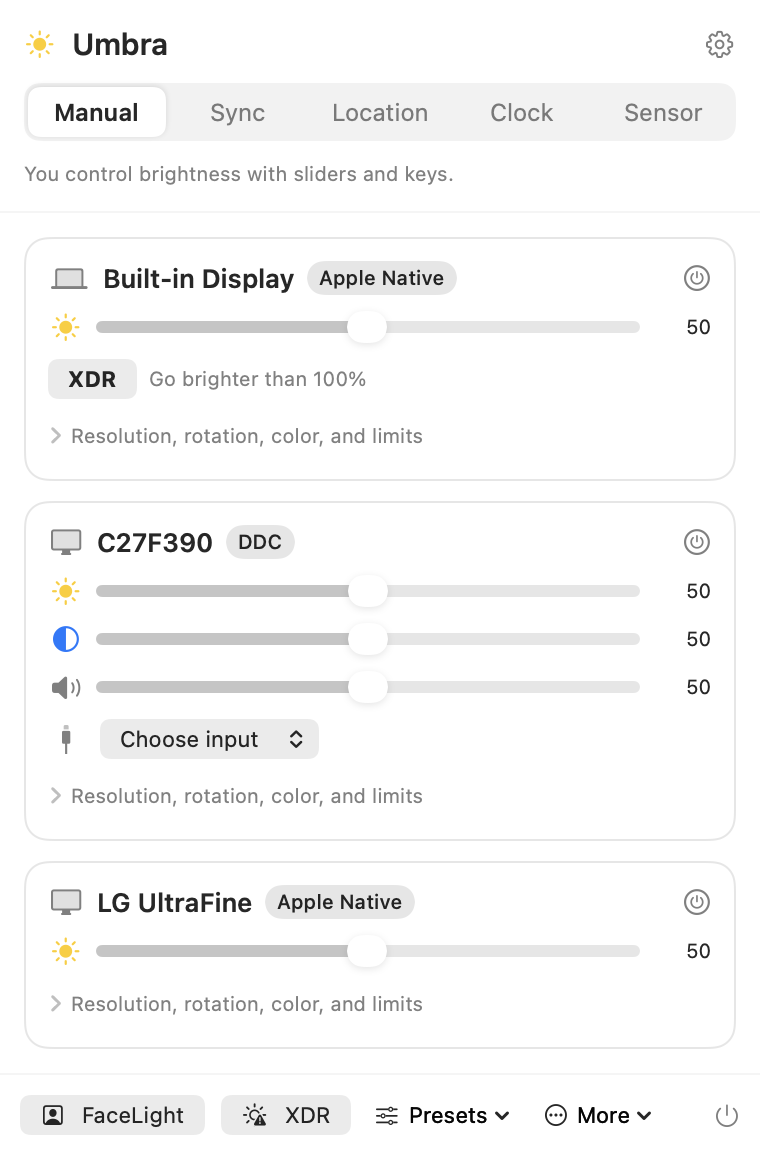
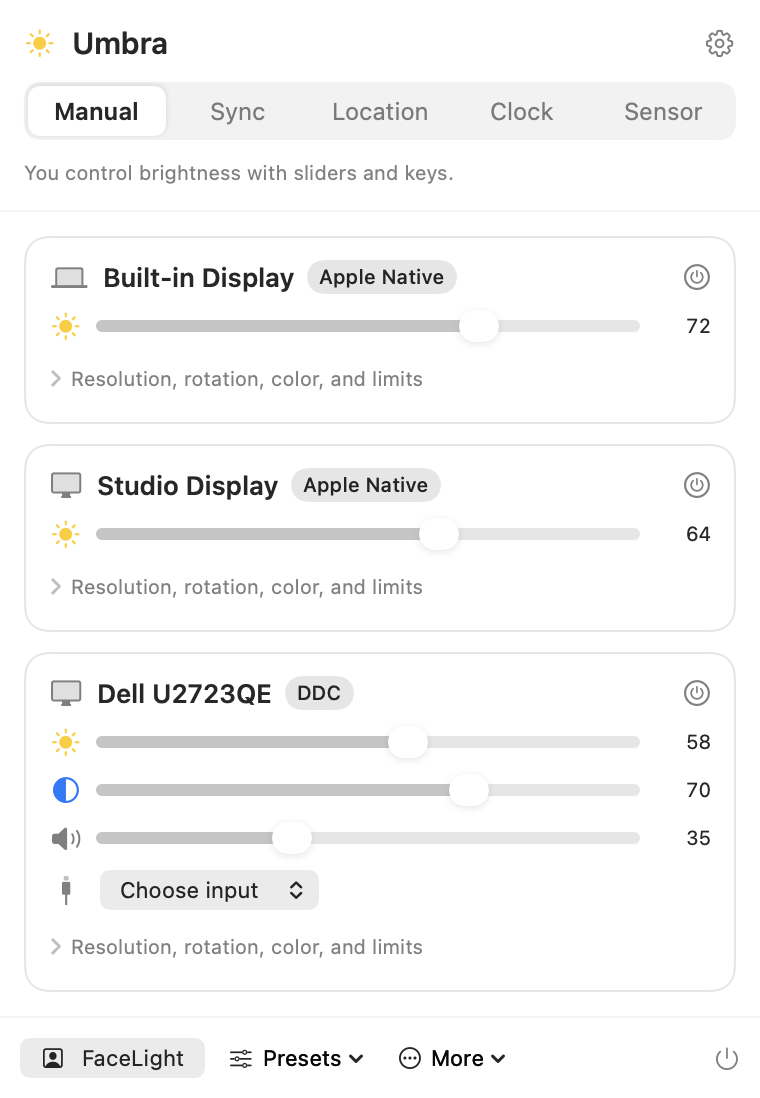
Dark mode: Appearance setting, dark screenshots on the site
- Settings > General > Appearance: Match macOS, Light, or Dark.
- umbra render has a demo mode (UMBRA_DEMO=1) with an example desk that
  never saves settings, so screenshots look the same every time.
- New light and dark screenshots. The site shows the dark ones, and the
  README switches with the reader's GitHub theme.

diff --git a/Sources/Umbra/Config.swift b/Sources/Umbra/Config.swift
@@ -1,3 +1,4 @@
+import AppKit
 import Foundation
 
 enum ControlMethod: String, Codable, CaseIterable, Identifiable {
@@ -10,6 +11,26 @@ enum ControlMethod: String, Codable, CaseIterable, Identifiable {
         case .ddc: return "DDC"
         case .network: return "Network"
         case .gamma: return "Gamma (software)"
+        }
+    }
+}
+
+/// Light or dark look for Umbra's own windows. "Match macOS" follows System Settings > Appearance.
+enum AppAppearance: String, Codable, CaseIterable, Identifiable {
+    case system, light, dark
+    var id: String { rawValue }
+    var label: String {
+        switch self {
+        case .system: return "Match macOS"
+        case .light: return "Light"
+        case .dark: return "Dark"
+        }
+    }
+    var nsAppearance: NSAppearance? {
+        switch self {
+        case .system: return nil
+        case .light: return NSAppearance(named: .aqua)
+        case .dark: return NSAppearance(named: .darkAqua)
         }
     }
 }
@@ -203,6 +224,7 @@ struct AppSettings: Codable, Equatable {
     var blackedOut: [UInt32] = []
     var menuIcon = "sun.max.fill"
     var showDockIcon = false
+    var appearance: AppAppearance = .system
     var scrollOnIcon = true
     /// Adaptive mode per desk setup, keyed by the set of connected external monitors.
     var deskModes: [String: AdaptiveMode] = [:]
@@ -231,7 +253,11 @@ enum Store {
         return try? JSONDecoder().decode(T.self, from: d)
     }
 
+    /// Set by `umbra render` in demo mode, so screenshots never change the person's real settings.
+    static var readOnly = false
+
     static func save<T: Encodable>(_ key: String, _ value: T) {
+        guard !readOnly else { return }
         if let d = try? JSONEncoder().encode(value) { defaults.set(d, forKey: key) }
     }
 }

diff --git a/Sources/Umbra/Render.swift b/Sources/Umbra/Render.swift
@@ -6,7 +6,19 @@ enum Render {
     static func run(_ dir: String) -> Int32 {
         let app = NSApplication.shared
         app.setActivationPolicy(.accessory)
-        AppState.shared.refreshDisplays()
+        if ProcessInfo.processInfo.environment["UMBRA_DEMO"] != nil {
+            // A tidy example desk for the website and README, the same every time.
+            Store.readOnly = true
+            let state = AppState.shared
+            state.settings.mode = .manual
+            state.displays = [
+                Display(demoID: 0xDE01, name: "Built-in Display", builtin: true, method: .appleNative, brightness: 72),
+                Display(demoID: 0xDE02, name: "Studio Display", builtin: false, method: .appleNative, brightness: 64),
+                Display(demoID: 0xDE03, name: "Dell U2723QE", builtin: false, method: .ddc, brightness: 58, contrast: 70, volume: 35),
+            ]
+        } else {
+            AppState.shared.refreshDisplays()
+        }
         RunLoop.main.run(until: Date().addingTimeInterval(0.5))
         try? FileManager.default.createDirectory(atPath: dir, withIntermediateDirectories: true)
         let dark = ProcessInfo.processInfo.environment["UMBRA_DARK"] != nil

diff --git a/site/index.html b/site/index.html
@@ -377,8 +377,8 @@ footer nav { display: flex; gap: 20px; flex-wrap: wrap; }
         </div>
       </div>
       <div class="shots">
-        <figure><img src="/assets/menu.png" alt="Umbra's menu with brightness, contrast, and volume sliders for three screens" width="760" height="1156" loading="lazy"><figcaption>The menu, one card per screen</figcaption></figure>
-        <figure><img src="/assets/welcome.png" alt="Umbra's welcome window listing the screens it found and a suggested mode" width="1040" height="1226" loading="lazy"><figcaption>The welcome window finds your screens for you</figcaption></figure>
+        <figure><img src="/assets/menu-dark.png" alt="Umbra's menu in dark mode, with brightness, contrast, and volume sliders for three screens" width="760" height="1098" loading="lazy"><figcaption>The menu, one card per screen</figcaption></figure>
+        <figure><img src="/assets/welcome-dark.png" alt="Umbra's welcome window in dark mode, listing the screens it found and a suggested mode" width="1040" height="1226" loading="lazy"><figcaption>The welcome window finds your screens for you</figcaption></figure>
       </div>
     </div>
   </section>

diff --git a/Sources/Umbra/SettingsView.swift b/Sources/Umbra/SettingsView.swift
@@ -32,6 +32,13 @@ struct GeneralTab: View {
                 Text("If the menu bar icon is hidden (for example behind the notch), open Umbra again from Applications or Spotlight to see the main window.")
                     .font(.caption).foregroundStyle(.secondary)
             }
+            Section("Appearance") {
+                Picker("Umbra's windows", selection: $state.settings.appearance) {
+                    ForEach(AppAppearance.allCases) { Text($0.label).tag($0) }
+                }
+                Text("Match macOS follows System Settings > Appearance. Choose Light or Dark to keep Umbra that way.")
+                    .font(.caption).foregroundStyle(.secondary)
+            }
             Section("Keyboard") {
                 Toggle("Brightness keys control external monitors", isOn: $state.settings.mediaKeys)
                 Toggle("Volume keys control monitor speakers when they are the sound output", isOn: $state.settings.volumeKeys)

diff --git a/Sources/Umbra/Display.swift b/Sources/Umbra/Display.swift
@@ -65,6 +65,21 @@ final class Display: ObservableObject, Identifiable {
 
     private func save() { Store.save("display.\(uuid)", config) }
 
+    /// A made-up display for screenshots (`UMBRA_DEMO=1 umbra render`). It has no DDC link and is never saved.
+    init(demoID: CGDirectDisplayID, name: String, builtin: Bool, method: ControlMethod, brightness: Double, contrast: Double = 50, volume: Double = 50) {
+        id = demoID
+        uuid = "demo-\(demoID)"
+        isBuiltin = builtin
+        self.name = name
+        link = nil
+        var c = DisplayConfig()
+        c.method = method
+        c.brightness = brightness
+        c.contrast = contrast
+        c.volume = volume
+        config = c
+    }
+
     // MARK: Capabilities
 
     var method: ControlMethod {

diff --git a/Sources/Umbra/AppState.swift b/Sources/Umbra/AppState.swift
@@ -20,6 +20,7 @@ final class AppState: ObservableObject {
             if settings.hotkeys != oldValue.hotkeys { HotkeyCenter.shared.register(settings.hotkeys) }
             if settings.autoBlackOut != oldValue.autoBlackOut { scheduleAutoBlackOut() }
             if settings.showDockIcon != oldValue.showDockIcon { (NSApp.delegate as? AppDelegate)?.updateActivationPolicy() }
+            if settings.appearance != oldValue.appearance { NSApp.appearance = settings.appearance.nsAppearance }
             if settings.subzeroEnabled != oldValue.subzeroEnabled { displays.forEach { $0.applyGamma() } }
         }
     }

diff --git a/Sources/Umbra/main.swift b/Sources/Umbra/main.swift
@@ -12,6 +12,7 @@ final class AppDelegate: NSObject, NSApplicationDelegate {
     private var eventMonitor: Any?
 
     func applicationDidFinishLaunching(_: Notification) {
+        NSApp.appearance = AppState.shared.settings.appearance.nsAppearance
         statusItem = NSStatusBar.system.statusItem(withLength: NSStatusItem.squareLength)
         if let b = statusItem.button {
             b.image = NSImage(systemSymbolName: "sun.max.fill", accessibilityDescription: "Umbra")

diff --git a/README.md b/README.md
@@ -3,9 +3,15 @@
 Umbra is a free, open source menu bar app for macOS. It controls the brightness, contrast, volume, input, and power of your monitors, including external monitors over DDC on Apple Silicon.
 
 <p align="center">
-  <img src="docs/images/menu.png" width="380" alt="Umbra's menu with brightness, contrast, and volume sliders for three displays">
+  <picture>
+    <source media="(prefers-color-scheme: dark)" srcset="docs/images/menu-dark.png">
+    <img src="docs/images/menu.png" width="380" alt="Umbra's menu with brightness, contrast, and volume sliders for three displays">
+  </picture>
   &nbsp;&nbsp;
-  <img src="docs/images/welcome.png" width="440" alt="Umbra's welcome window with the detected screens and a suggested mode">
+  <picture>
+    <source media="(prefers-color-scheme: dark)" srcset="docs/images/welcome-dark.png">
+    <img src="docs/images/welcome.png" width="440" alt="Umbra's welcome window with the detected screens and a suggested mode">
+  </picture>
 </p>
 
 <p align="center"><a href="https://github.com/JordanCampbellDesign/Umbra/releases/download/promo/umbra-loop.mp4">Watch the 18-second video (MP4)</a></p>

diff --git a/CHANGELOG.md b/CHANGELOG.md
@@ -1,5 +1,10 @@
 # Changelog
 
+## Unreleased
+
+- Settings > General > Appearance: keep Umbra's windows light or dark, or match macOS (the default).
+- `UMBRA_DEMO=1 umbra render <folder>` draws the screenshots with an example desk, in light or dark (`UMBRA_DARK=1`), without changing your settings.
+
 ## 1.0.3
 
 - Umbra now notices when a monitor ignores its changes. If the monitor still reports its old brightness after a change, the menu says so and offers software dimming. If the monitor can't report its brightness at all, Umbra asks once whether the screen changed and remembers your answer. Found on a Samsung C27F390 connected over HDMI.
